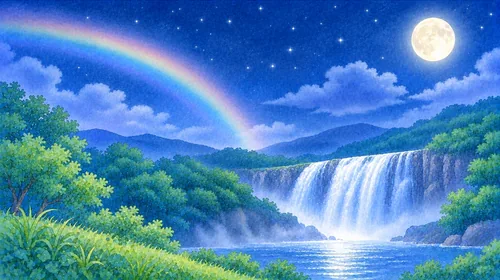
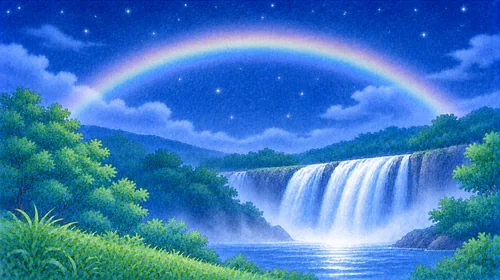
イラスト追加：雲海・天文ショー6枚、グリーンフラッシュと月虹を差し替え
Claude-Session: https://claude.ai/code/session_01Py86tRpSHYAiR5yGxFmHgx

diff --git a/sw.js b/sw.js
@@ -1,4 +1,4 @@
-const CACHE='card-v86';
+const CACHE='card-v87';
 const FILES=['./','index.html','word.js','sfx.js','bgm/day.mp3','bgm/night.mp3','bgm/classic.mp3','manifest.json','back1.webp','back2.webp','back3.webp','back4.webp','snow_j.webp','snow_g.webp','snow_h.webp','snow_i.webp','icon-192.png','icon-512.png'];
 self.addEventListener('install',e=>{e.waitUntil(caches.open(CACHE).then(c=>c.addAll(FILES)));self.skipWaiting()});
 self.addEventListener('activate',e=>{e.waitUntil(caches.keys().then(ks=>Promise.all(ks.filter(k=>k.startsWith('card-')&&k!==CACHE).map(k=>caches.delete(k)))).then(()=>self.clients.claim()))});

diff --git a/word.js b/word.js
@@ -256,6 +256,13 @@ const IMG={
  'つみき':'tsumiki',
  'ブロック':'block',
  'ぬいぐるみ':'nuigurumi',
+ '雲海':'ph_unkai',
+ '金環日食':'as_annular',
+ '皆既日食':'as_totalsolar',
+ '皆既月食':'as_totallunar',
+ '流星群':'as_meteor',
+ 'スーパームーン':'as_supermoon',
+ '彗星':'as_comet',
  '金':'mt_gold',
  '銀':'mt_silver',
  '銅':'mt_copper',
